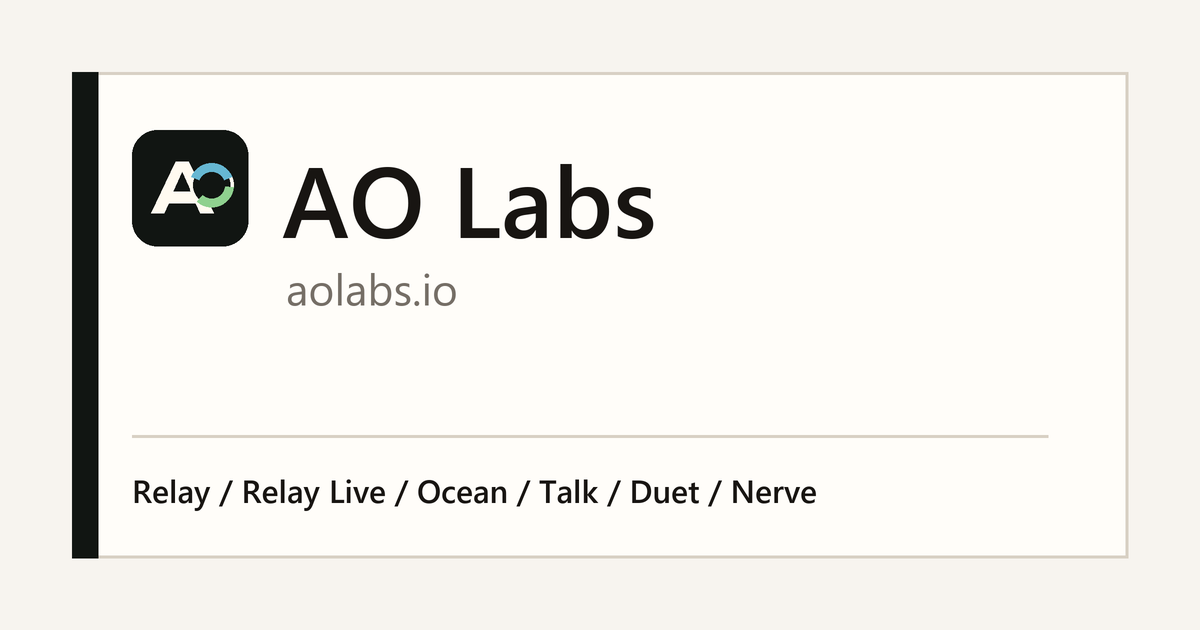
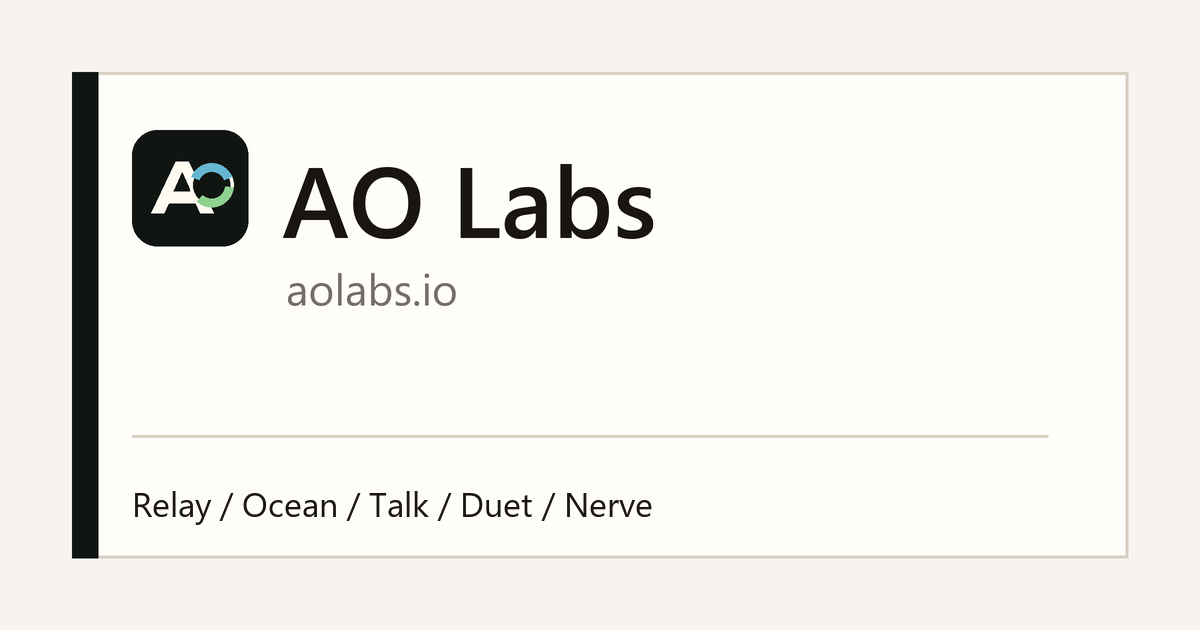
Hide Relay Live from AO Labs hub

Changed region(s): [[0.0925, 0.754, 0.6783, 0.8444]]

diff --git a/index.html b/index.html
@@ -4,19 +4,19 @@
   <meta charset="utf-8" />
   <meta name="viewport" content="width=device-width, initial-scale=1" />
   <title>AO Labs</title>
-  <meta name="description" content="AO Labs app hub for Relay, Relay Live, Ocean, Talk, Duet, and Nerve." />
+  <meta name="description" content="AO Labs app hub for Relay, Ocean, Talk, Duet, and Nerve." />
   <link rel="canonical" href="https://aolabs.io/" />
   <meta property="og:type" content="website" />
   <meta property="og:site_name" content="AO Labs" />
   <meta property="og:title" content="AO Labs" />
-  <meta property="og:description" content="AO Labs app hub for Relay, Relay Live, Ocean, Talk, Duet, and Nerve." />
+  <meta property="og:description" content="AO Labs app hub for Relay, Ocean, Talk, Duet, and Nerve." />
   <meta property="og:url" content="https://aolabs.io/" />
   <meta property="og:image" content="https://aolabs.io/og-image.png" />
   <meta property="og:image:width" content="1200" />
   <meta property="og:image:height" content="630" />
   <meta name="twitter:card" content="summary_large_image" />
   <meta name="twitter:title" content="AO Labs" />
-  <meta name="twitter:description" content="AO Labs app hub for Relay, Relay Live, Ocean, Talk, Duet, and Nerve." />
+  <meta name="twitter:description" content="AO Labs app hub for Relay, Ocean, Talk, Duet, and Nerve." />
   <meta name="twitter:image" content="https://aolabs.io/og-image.png" />
   <link rel="icon" href="/favicon.svg" type="image/svg+xml">
   <link rel="apple-touch-icon" href="/apple-touch-icon.png">
@@ -30,7 +30,6 @@
       --muted: #756e66;
       --line: #ded7cc;
       --relay: #c88452;
-      --live: #c88452;
       --talk: #c8796d;
       --duet: #c1515b;
       --nerve: #d96a59;
@@ -195,7 +194,6 @@
     }
 
     .relay { --accent: var(--relay); }
-    .live { --accent: var(--live); }
     .talk { --accent: var(--talk); }
     .duet { --accent: var(--duet); }
     .nerve { --accent: var(--nerve); }
@@ -276,20 +274,6 @@
         <div class="card-foot"><span class="url">relay.aolabs.io</span></div>
       </a>
 
-      <a class="app live" href="https://relaylive.aolabs.io" aria-label="Relay Live">
-        <div>
-          <div class="app-top">
-            <div>
-              <h2>Relay Live</h2>
-              <div class="role">monitor</div>
-            </div>
-            <span class="app-icon" aria-hidden="true"><img src="/icons/relay-live.svg" alt=""></span>
-          </div>
-          <p class="desc">Check sends, replies, money, and whether you need to step in.</p>
-        </div>
-        <div class="card-foot"><span class="url">relaylive.aolabs.io</span></div>
-      </a>
-
       <a class="app ocean" href="https://ocean.aolabs.io" aria-label="Ocean">
         <div>
           <div class="app-top">
@@ -309,11 +293,11 @@
           <div class="app-top">
             <div>
               <h2>Talk</h2>
-              <div class="role">mirror</div>
+              <div class="role">alan pham voice</div>
             </div>
             <span class="app-icon" aria-hidden="true"><img src="/icons/talk.svg" alt=""></span>
           </div>
-          <p class="desc">Public AI mirror for short, direct replies.</p>
+          <p class="desc">An AI programmed to answer in Alan Pham's direct style.</p>
         </div>
         <div class="card-foot"><span class="url">talk.aolabs.io</span></div>
       </a>
@@ -349,7 +333,7 @@
 
     <footer>
       <span>AO Labs</span>
-      <span>Relay / Relay Live / Ocean / Talk / Duet / Nerve</span>
+      <span>Relay / Ocean / Talk / Duet / Nerve</span>
     </footer>
   </main>
 </body>
